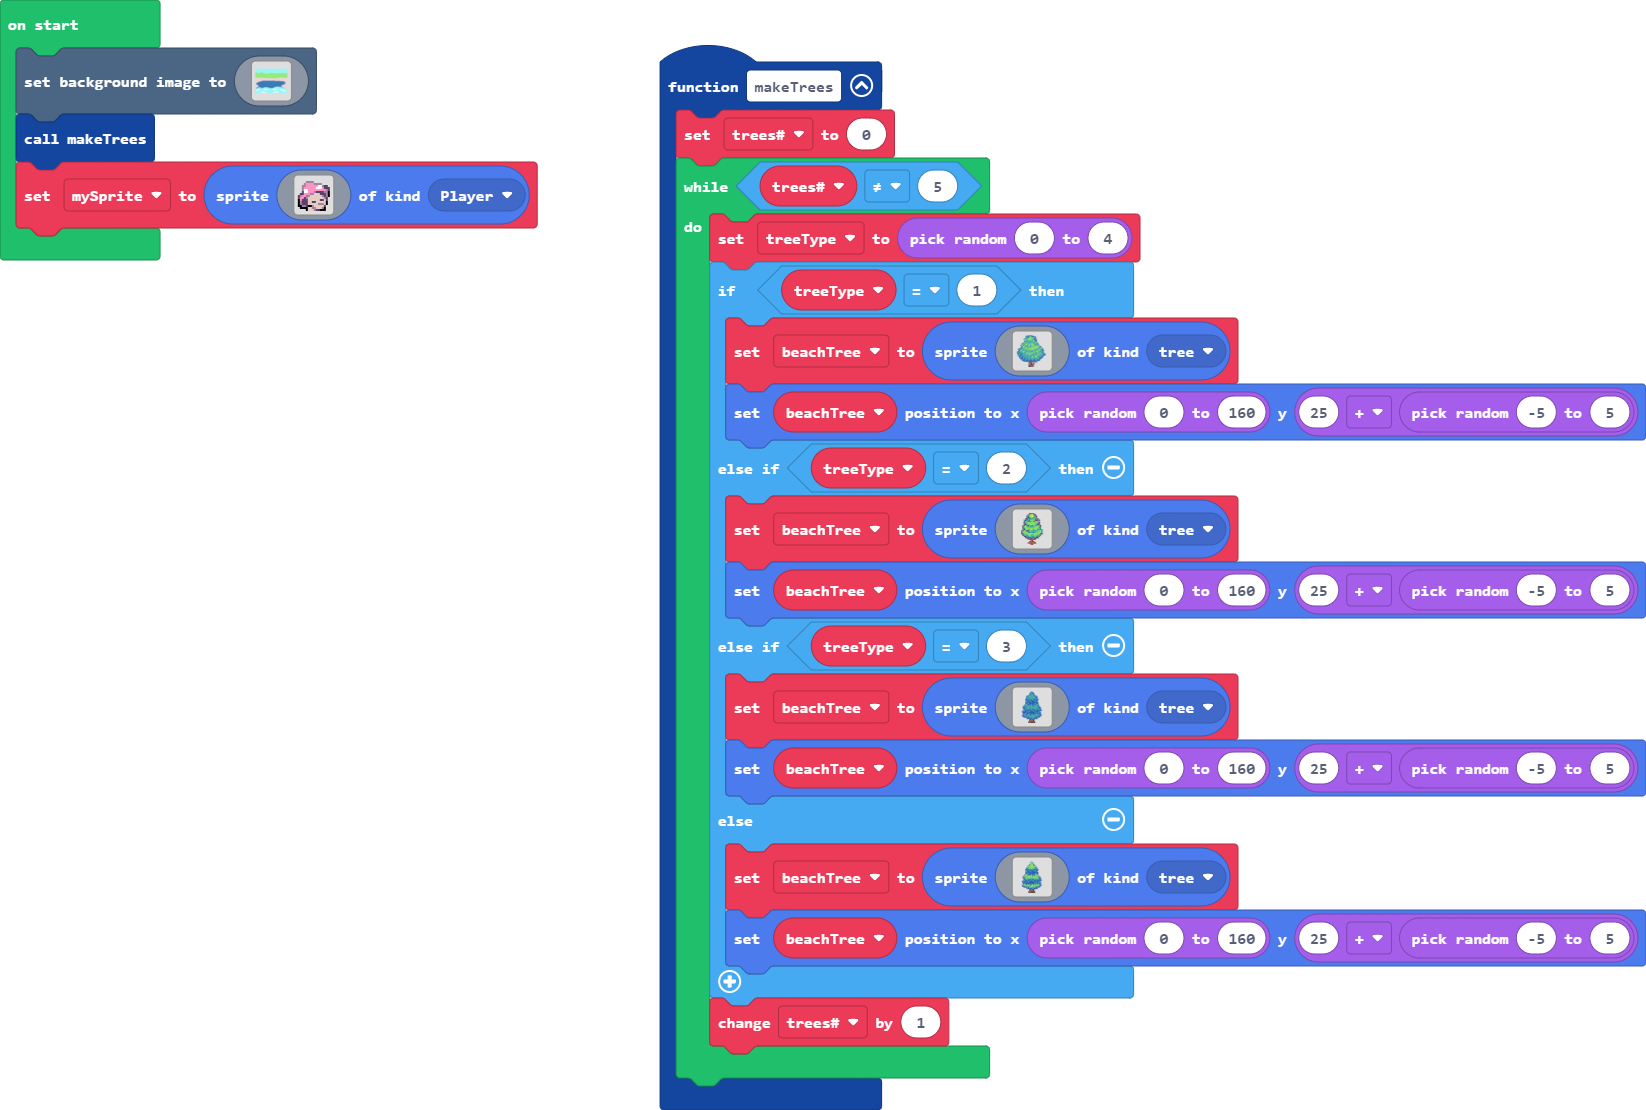
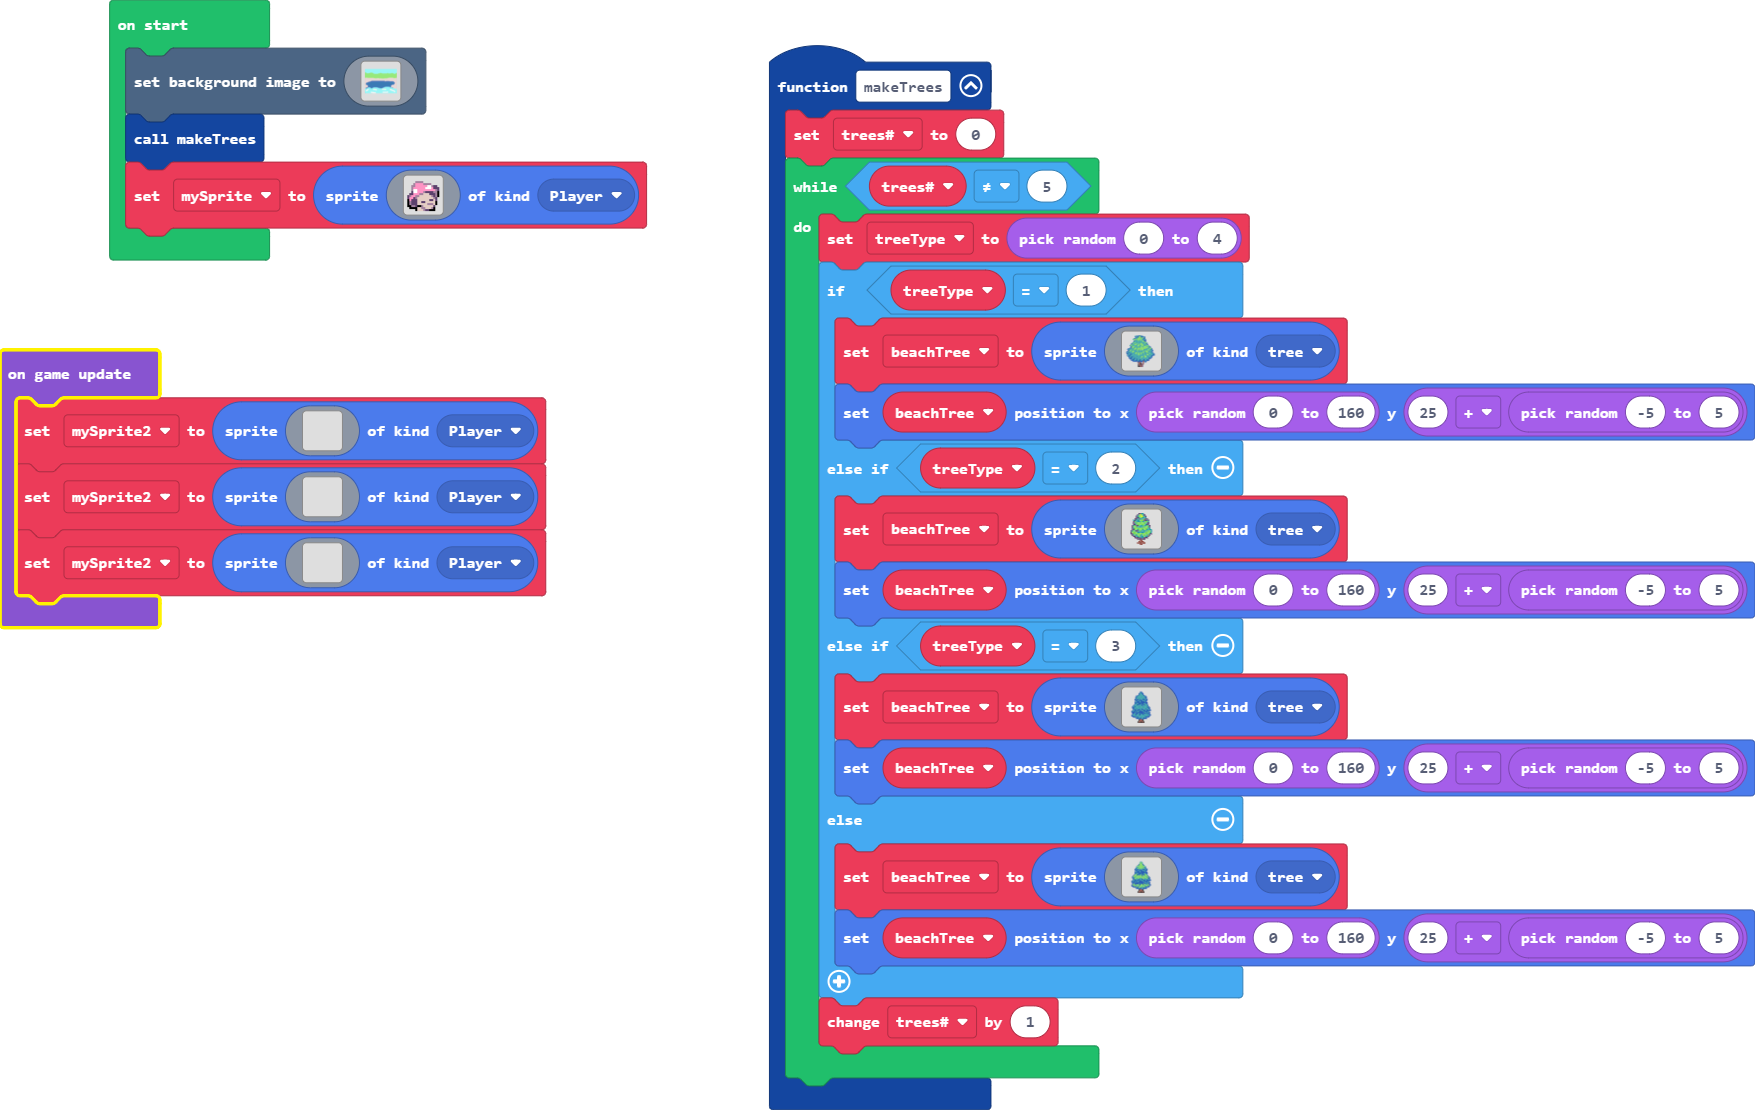
Update main.blocks, main.ts

Changed region(s): [[0.4028, 0.0306, 1.0, 1.0], [0.0, 0.3063, 0.3098, 0.582], [0.0, 0.0, 0.3718, 0.245]]

diff --git a/main.ts b/main.ts
@@ -170,6 +170,7 @@ function makeTrees () {
         trees += 1
     }
 }
+let mySprite2: Sprite = null
 let beachTree: Sprite = null
 let treeType = 0
 let trees = 0
@@ -314,3 +315,59 @@ let mySprite = sprites.create(img`
     . f f f f d d b b d d d b f . . 
     . . . . f d d d b c c f f f . . 
     `, SpriteKind.Player)
+game.onUpdate(function () {
+    mySprite2 = sprites.create(img`
+        . . . . . . . . . . . . . . . . 
+        . . . . . . . . . . . . . . . . 
+        . . . . . . . . . . . . . . . . 
+        . . . . . . . . . . . . . . . . 
+        . . . . . . . . . . . . . . . . 
+        . . . . . . . . . . . . . . . . 
+        . . . . . . . . . . . . . . . . 
+        . . . . . . . . . . . . . . . . 
+        . . . . . . . . . . . . . . . . 
+        . . . . . . . . . . . . . . . . 
+        . . . . . . . . . . . . . . . . 
+        . . . . . . . . . . . . . . . . 
+        . . . . . . . . . . . . . . . . 
+        . . . . . . . . . . . . . . . . 
+        . . . . . . . . . . . . . . . . 
+        . . . . . . . . . . . . . . . . 
+        `, SpriteKind.Player)
+    mySprite2 = sprites.create(img`
+        . . . . . . . . . . . . . . . . 
+        . . . . . . . . . . . . . . . . 
+        . . . . . . . . . . . . . . . . 
+        . . . . . . . . . . . . . . . . 
+        . . . . . . . . . . . . . . . . 
+        . . . . . . . . . . . . . . . . 
+        . . . . . . . . . . . . . . . . 
+        . . . . . . . . . . . . . . . . 
+        . . . . . . . . . . . . . . . . 
+        . . . . . . . . . . . . . . . . 
+        . . . . . . . . . . . . . . . . 
+        . . . . . . . . . . . . . . . . 
+        . . . . . . . . . . . . . . . . 
+        . . . . . . . . . . . . . . . . 
+        . . . . . . . . . . . . . . . . 
+        . . . . . . . . . . . . . . . . 
+        `, SpriteKind.Player)
+    mySprite2 = sprites.create(img`
+        . . . . . . . . . . . . . . . . 
+        . . . . . . . . . . . . . . . . 
+        . . . . . . . . . . . . . . . . 
+        . . . . . . . . . . . . . . . . 
+        . . . . . . . . . . . . . . . . 
+        . . . . . . . . . . . . . . . . 
+        . . . . . . . . . . . . . . . . 
+        . . . . . . . . . . . . . . . . 
+        . . . . . . . . . . . . . . . . 
+        . . . . . . . . . . . . . . . . 
+        . . . . . . . . . . . . . . . . 
+        . . . . . . . . . . . . . . . . 
+        . . . . . . . . . . . . . . . . 
+        . . . . . . . . . . . . . . . . 
+        . . . . . . . . . . . . . . . . 
+        . . . . . . . . . . . . . . . . 
+        `, SpriteKind.Player)
+})
